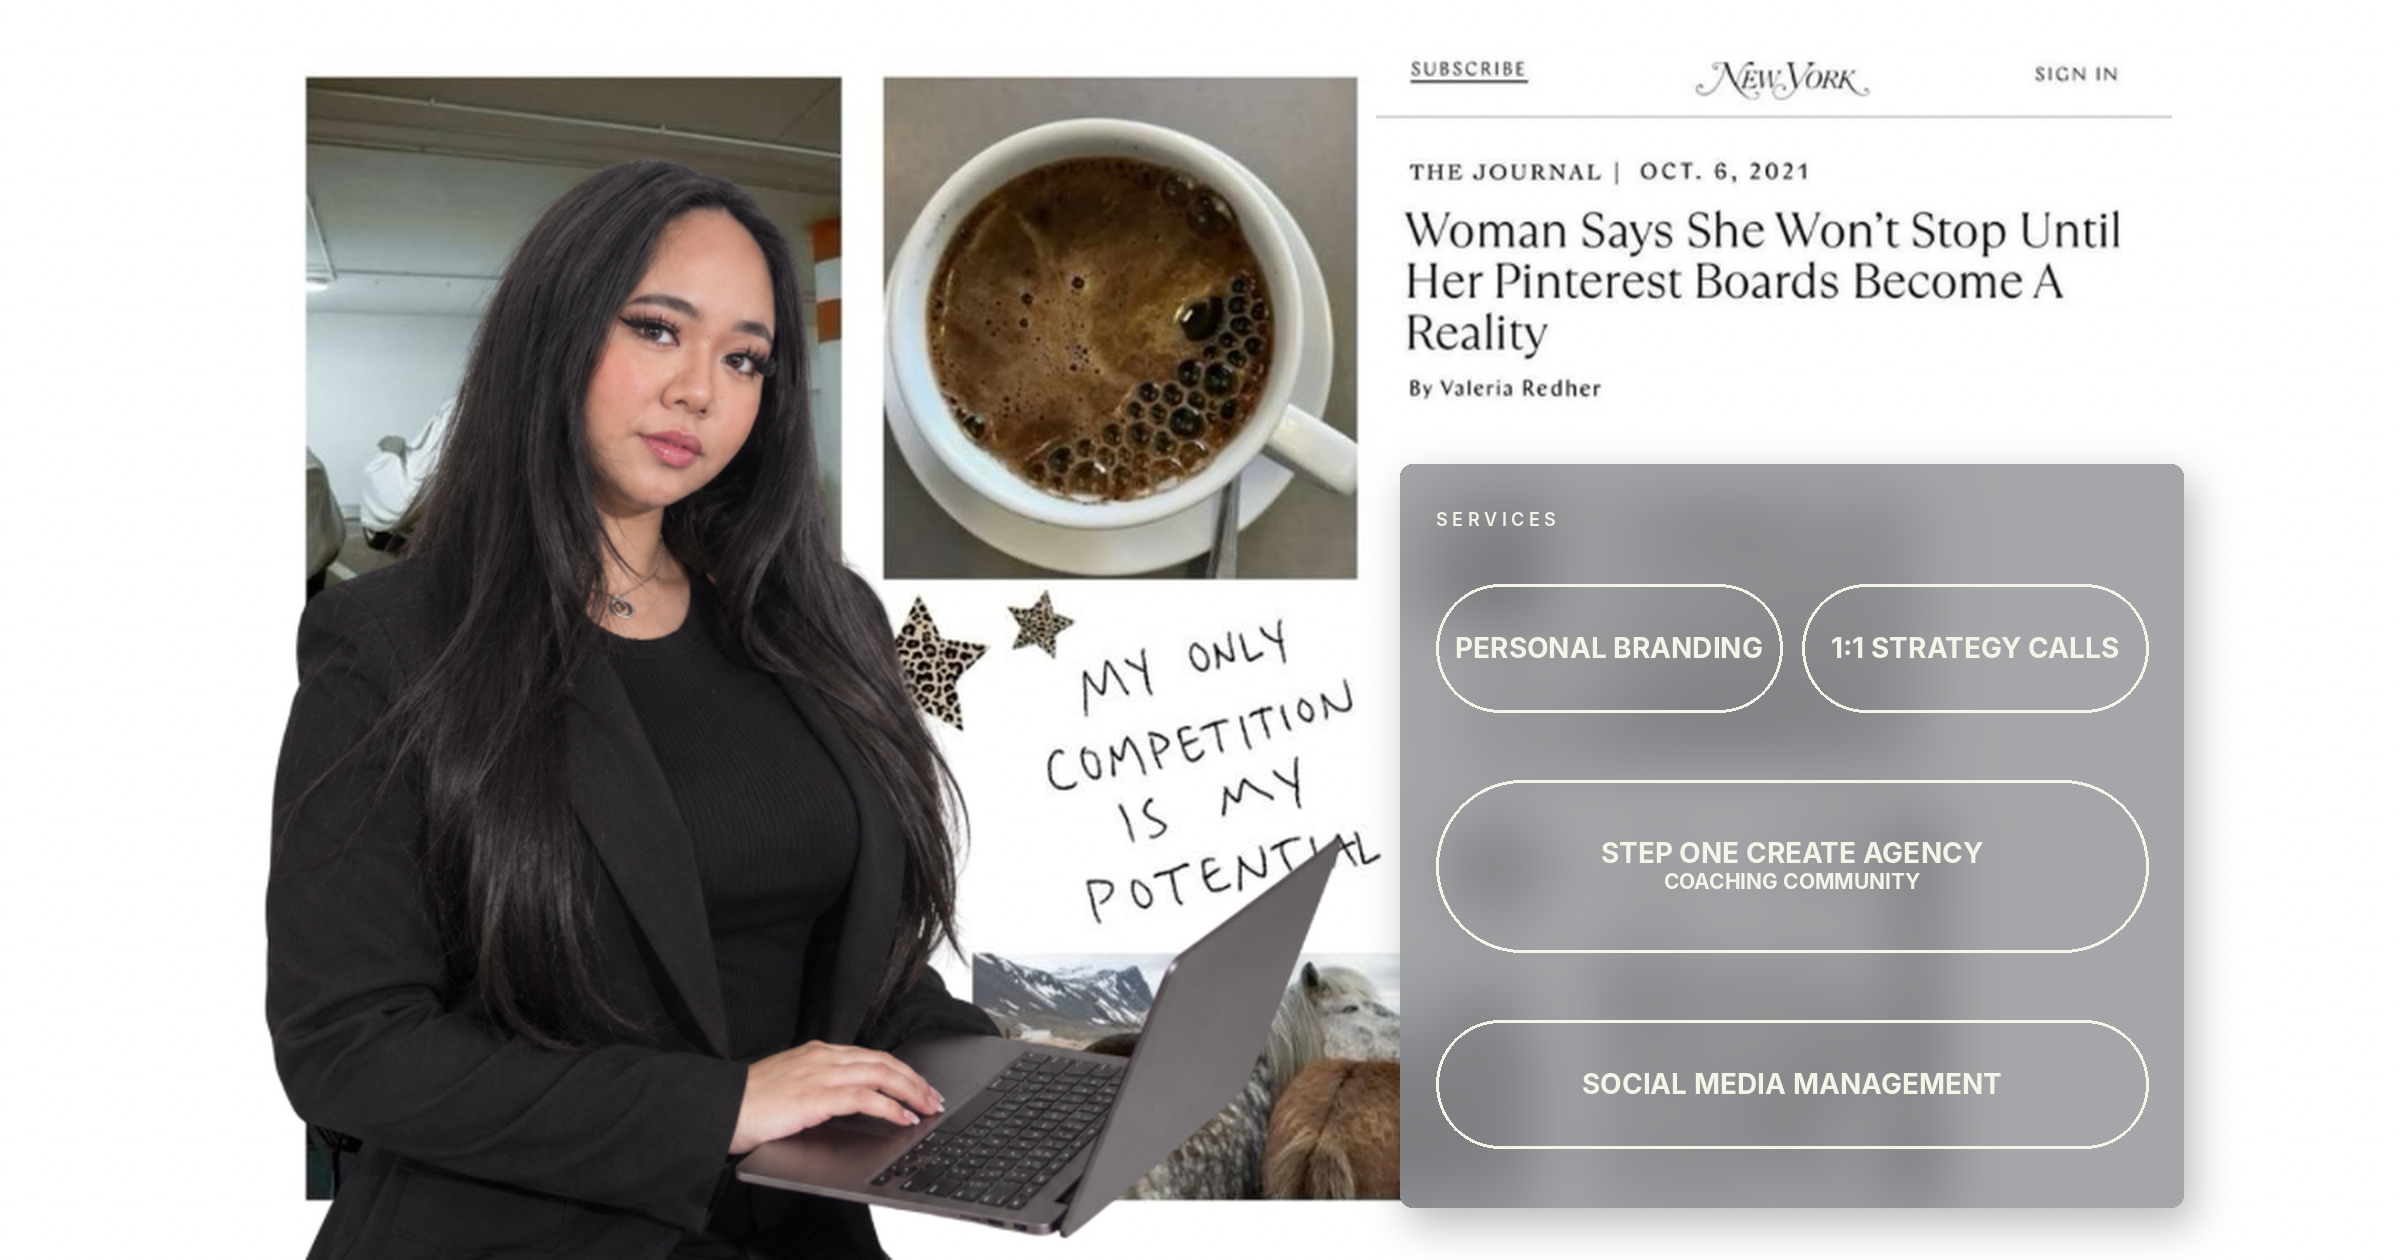
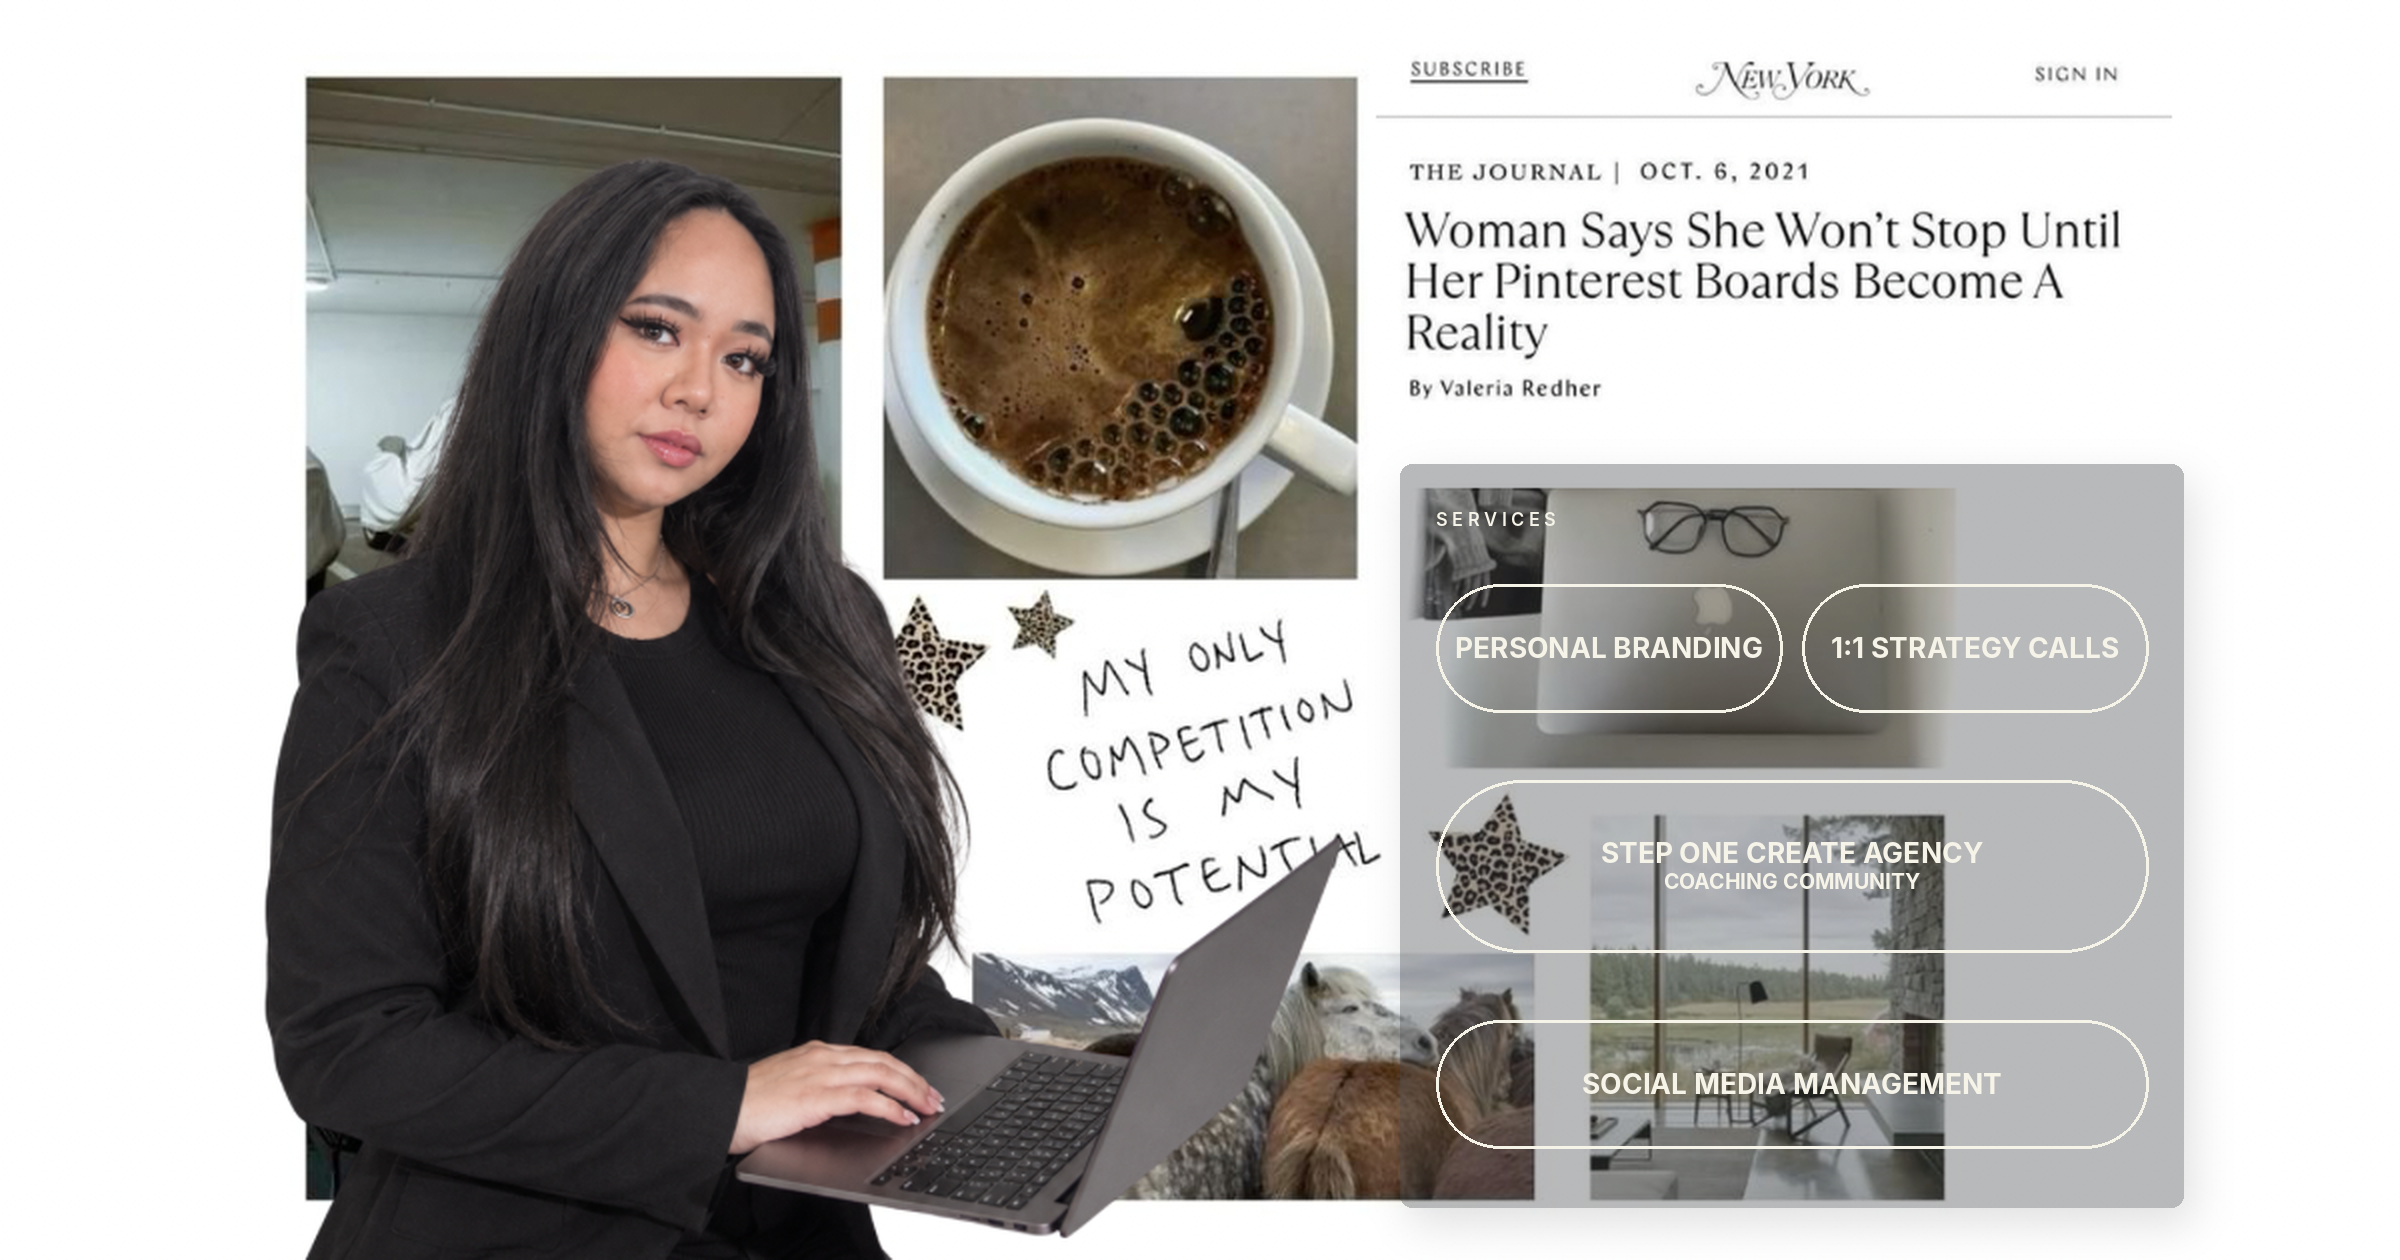
Make services panel transparent so collage photos show through
Claude-Session: https://claude.ai/code/session_01UnZExAi7n6NZXi1T3YtVwj

Changed region(s): [[0.5625, 0.3405, 0.9062, 0.9905]]

diff --git a/scripts/make_header.py b/scripts/make_header.py
@@ -15,15 +15,14 @@ base = base.resize((base.width * S, base.height * S), Image.LANCZOS)
 px0, py0, px1, py1 = 700, 232, 1092, 604
 box = tuple(v * S for v in (px0, py0, px1, py1))
 region = base.crop(box)
-region = ImageOps.grayscale(region.filter(ImageFilter.GaussianBlur(14 * S))).convert("RGB")
-region = ImageEnhance.Contrast(region).enhance(0.55)
-grey = Image.new("RGB", region.size, (122, 125, 129))
-region = Image.blend(region, grey, 0.6)
+# Transparent panel: photos stay visible, only a light smoky tint for legibility
+grey = Image.new("RGB", region.size, (70, 72, 76))
+region = Image.blend(region, grey, 0.38)
 
 mask = Image.new("L", region.size, 0)
 ImageDraw.Draw(mask).rounded_rectangle([0, 0, region.width - 1, region.height - 1], radius=6 * S, fill=255)
 shadow = Image.new("RGBA", base.size, (0, 0, 0, 0))
-ImageDraw.Draw(shadow).rounded_rectangle([box[0] + 4 * S, box[1] + 8 * S, box[2] + 4 * S, box[3] + 8 * S], radius=6 * S, fill=(0, 0, 0, 70))
+ImageDraw.Draw(shadow).rounded_rectangle([box[0] + 4 * S, box[1] + 8 * S, box[2] + 4 * S, box[3] + 8 * S], radius=6 * S, fill=(0, 0, 0, 30))
 shadow = shadow.filter(ImageFilter.GaussianBlur(10 * S))
 base = Image.alpha_composite(base.convert("RGBA"), shadow)
 base.paste(region, box[:2], mask)
